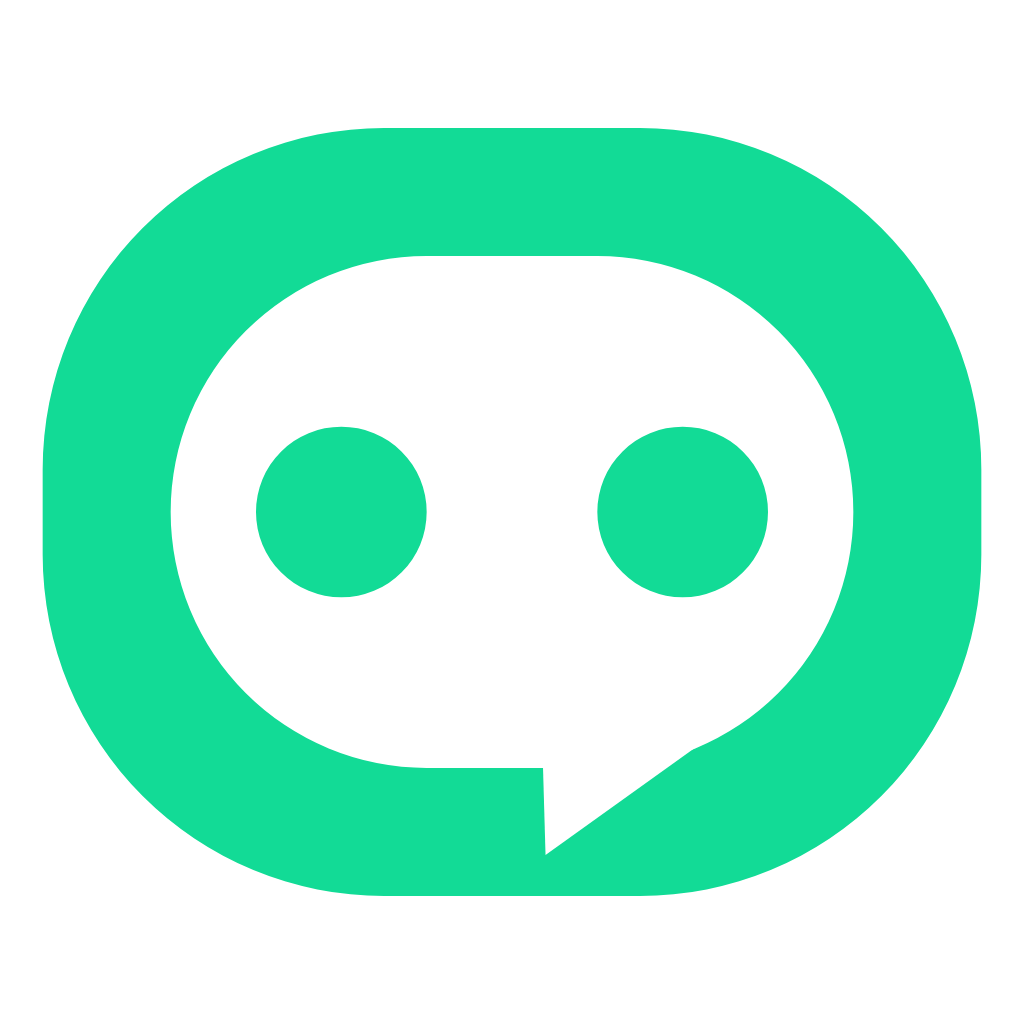
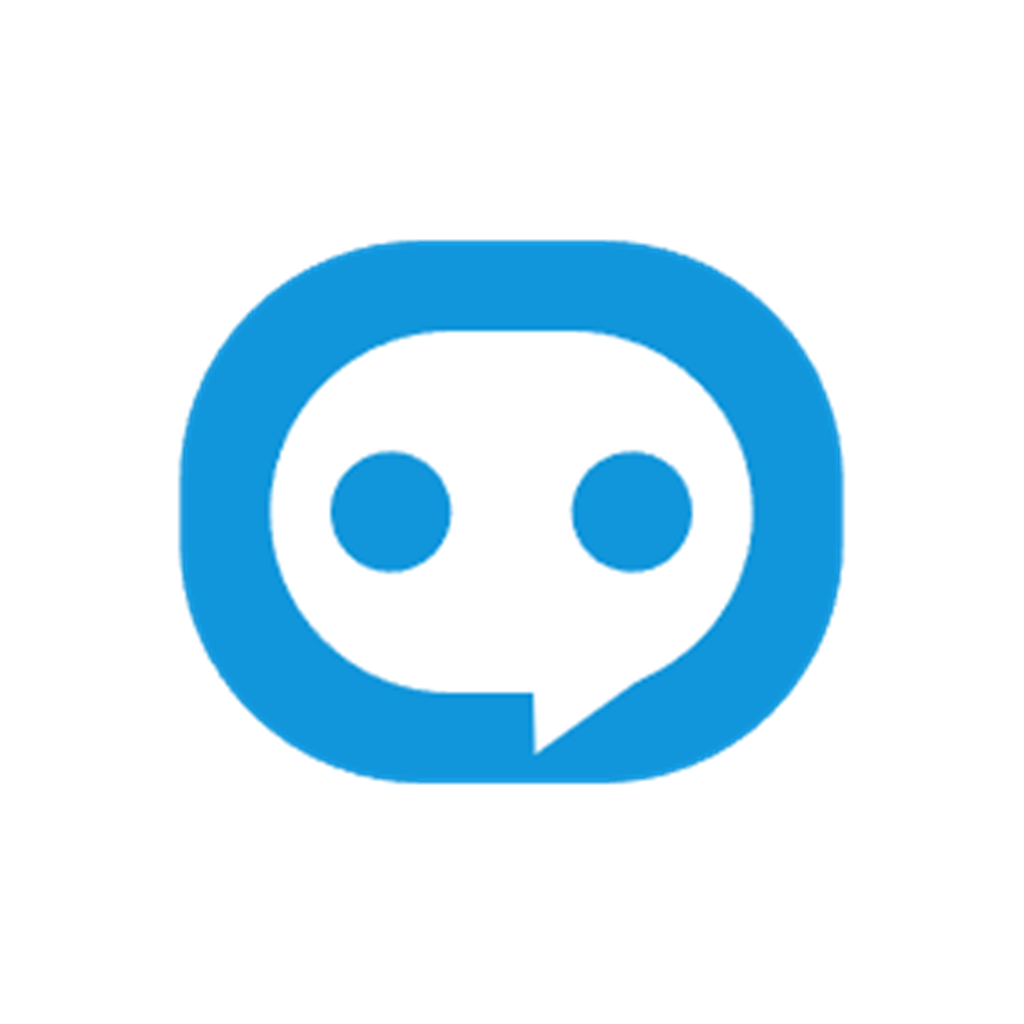
feat(ui): 应用名改为 DSH Desktop Ark 并启用带 alpha 的品牌图标
- 图标：以父工程 assets/logo.png（200×200 RGBA）生成 1024×1024 透明画布图标，
  内容按比例放大至画布宽 65%（约 669×546）居中，HighQualityBicubic 重采样；
  替换 AppScope/.../app_icon.png、entry/.../icon.png，startIcon.png（512）同规则替换启动页图标
- 名称：app_name / EntryAbility_label / EntryAbility_desc / module_desc → DSH Desktop Ark；
  启动页 boot.html 的 title 与正文、Index.ets 的启动遮罩标题同步
- 校验：三张图标均为 Format32bppArgb、四角 alpha=0、内容占宽 65.3%/65.4%；
  HAP 打包后资源仍为 RGBA 且四角透明；真机 bm dump -l 解析结果为「DSH Desktop Ark」
- 文档：specs/108 FR-108-001 记录改名与图标变更（包名未变 ⇒ 同一产品，可原地升级）；
  ACL配置 §10 注明历史弹框标题「DSH Desktop」为改名前的实测原文

diff --git a/entry/src/main/resources/rawfile/boot.html b/entry/src/main/resources/rawfile/boot.html
@@ -3,7 +3,7 @@
 <head>
   <meta charset="utf-8" />
   <meta name="viewport" content="width=device-width, initial-scale=1" />
-  <title>DSH Desktop</title>
+  <title>DSH Desktop Ark</title>
   <style>
     html, body { margin: 0; padding: 0; height: 100%; background: #ffffff; }
     body {
@@ -24,7 +24,7 @@
 <body>
   <div class="box">
     <div class="dot"></div>
-    <div class="title">DSH Desktop</div>
+    <div class="title">DSH Desktop Ark</div>
     <div class="hint">正在启动本地服务…</div>
   </div>
 </body>

diff --git a/specs/108-compliance-release/spec.md b/specs/108-compliance-release/spec.md
@@ -49,6 +49,7 @@
 ## 3. 功能需求
 ### 3.1 标识与版本
 - **FR-108-001**：应用标识（包名、厂商、应用名、图标）MUST 稳定；修改包名 MUST 视为新产品，MUST NOT 原地升级。
+  > **2026-10-21 变更记录**：应用名由「DSH Desktop」改为「**DSH Desktop Ark**」（`AppScope` 的 `app_name`，同步 `EntryAbility_label/_desc`、`module_desc`、启动页与界面标题）；图标改为父工程 `assets/logo.png`（200×200 RGBA 源，生成 1024×1024 透明画布、内容占宽 65%）。**包名未变** ⇒ 仍为同一产品，可原地升级。
 - **FR-108-002**：设备形态 MUST 仅包含 2in1 与 tablet；MUST NOT 声明 phone。
 - **FR-108-003**：应用 MUST 单实例运行；重复启动 MUST 复用已有实例。
 - **FR-108-004**：版本号 MUST 按"主 * 10000 + 次 * 100 + 修订"计算，且 MUST 单调递增；版本名 MUST 与版本号同步。
